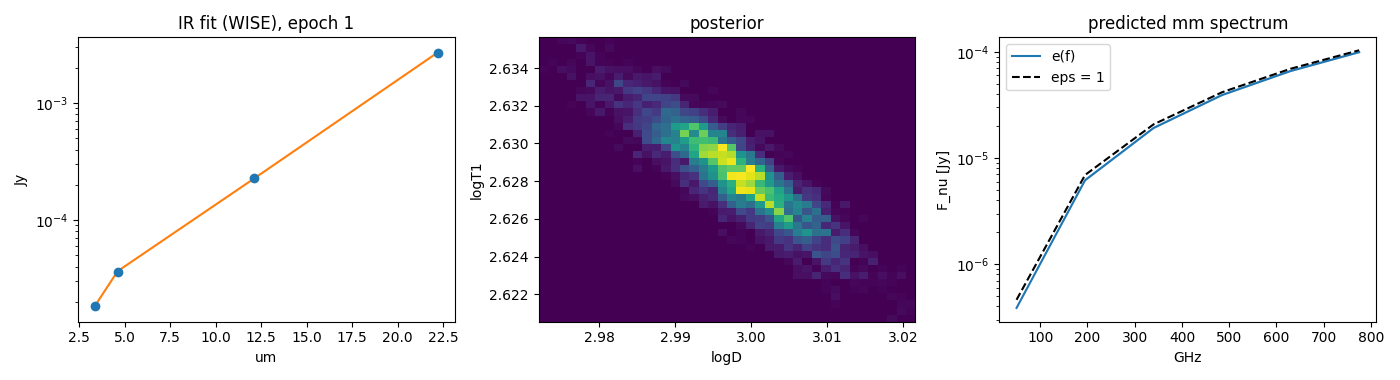
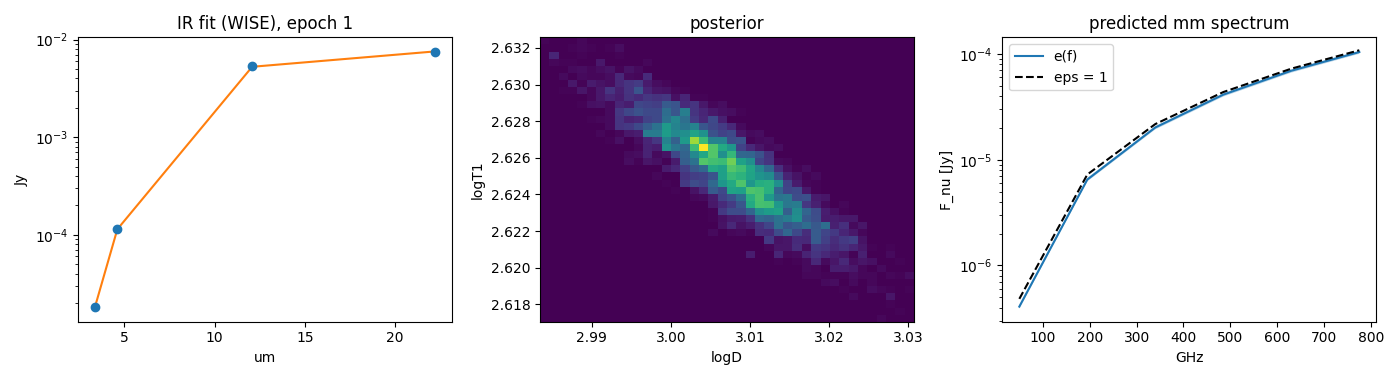
Fix WISE epoch/band transpose in mmfit; add fixed per-band eps and db loader; real Vesta example

diff --git a/reports/vesta/ir_to_mm_WISE.html b/reports/vesta/ir_to_mm_WISE.html
@@ -1,3 +1,3 @@
-<h2>IR to mm: WISE</h2><p>emissivity: L5_l5c.npz; acceptance 0.65; best chi2 = 5.7 for 12 points.</p><img src="ir_to_mm_WISE.png"><img src="ir_to_mm_WISE_sed.png"><pre>        logD   logT1     eps  logprob
-mean  5.7176  2.5936  0.8981  -4.3571
-std   0.0070  0.0023  0.0039   1.2165</pre>
+<h2>IR to mm: WISE</h2><p>emissivity: L5_l5c.npz; acceptance 0.65; best chi2 = 4.3 for 12 points.</p><img src="ir_to_mm_WISE.png"><img src="ir_to_mm_WISE_sed.png"><pre>        logD   logT1     eps  logprob
+mean  5.7261  2.5913  0.9046  -3.6355
+std   0.0070  0.0023  0.0036   1.2189</pre>

diff --git a/reports/ir_to_mm_WISE.html b/reports/ir_to_mm_WISE.html
@@ -1,3 +1,3 @@
-<h2>IR to mm: WISE</h2><p>emissivity: L5_l5c.npz; acceptance 0.65; best chi2 = 5.7 for 12 points.</p><img src="ir_to_mm_WISE.png"><pre>        logD   logT1     eps  logprob
-mean  2.9978  2.6284  0.8980  -4.3464
-std   0.0071  0.0022  0.0044   1.1890</pre>
+<h2>IR to mm: WISE</h2><p>emissivity: L5_l5c.npz; acceptance 0.65; best chi2 = 4.3 for 12 points.</p><img src="ir_to_mm_WISE.png"><img src="ir_to_mm_WISE_sed.png"><pre>        logD   logT1     eps  logprob
+mean  3.0075  2.6253  0.9042  -3.6201
+std   0.0070  0.0023  0.0041   1.1557</pre>

diff --git a/reports/vesta_real/ir_to_mm_WISE.html b/reports/vesta_real/ir_to_mm_WISE.html
@@ -1,0 +1,3 @@
+<h2>IR to mm: WISE</h2><p>emissivity: L5_l5c.npz; acceptance 0.65; best chi2 = 16.0 for 20 points.</p><img src="ir_to_mm_WISE.png"><img src="ir_to_mm_WISE_sed.png"><pre>        logD   logT1     eps  logprob
+mean  5.6406  2.6244  0.6727  -9.5186
+std   0.0162  0.0064  0.0318   1.2107</pre>

diff --git a/scripts/ir_to_mm.py b/scripts/ir_to_mm.py
@@ -1,6 +1,7 @@
 """Fit IR photometry (WISE or SPHEREx) with NEATM and predict the mm spectrum with Meteorites-TeraFlash e(f)."""
 
 import argparse
+import sqlite3
 from pathlib import Path
 
 import matplotlib
@@ -10,6 +11,7 @@ import matplotlib.pyplot as plt
 import numpy as np
 import pandas as pd
 
+from atm import modifyErrors
 from atm.config import Config
 from atm.constants import Constants
 from atm.functions.emissivity import EmissivityTable, ghzToLambda
@@ -71,12 +73,70 @@ def syntheticData(
     return df
 
 
+def loadWiseFromDb(db: Path, designation: str, sigma: float, obs: WISE) -> pd.DataFrame:
+    """
+    Load clipped WISE observations of one object from an atm_data sample database, following
+    the paper1 procedure (keep == 1, then `~atm.modifyErrors` adds sigma magnitudes of error).
+
+    Parameters
+    ----------
+    db : `~pathlib.Path`
+        sqlite database with an `observations` table (e.g. atm_data/paper1/sample.db).
+    designation : str
+        Object designation as stored in the database (e.g. "4" for Vesta).
+    sigma : float
+        Magnitude error added in quadrature-free offset form by `~atm.modifyErrors`.
+    obs : `~atm.obs.WISE`
+        Observatory used to convert the magnitude errors to flux errors.
+
+    Returns
+    -------
+    `~pandas.DataFrame`
+        Observations with an `alpha_rad` column.
+    """
+    with sqlite3.connect(f"file:{db}?mode=ro", uri=True) as con:
+        df = pd.read_sql(
+            "SELECT * FROM observations WHERE designation = ? AND keep = 1",
+            con,
+            params=(designation,),
+        )
+    if df.empty:
+        raise ValueError(f"No kept observations of {designation} in {db}")
+    df = modifyErrors(df, obs, sigma=sigma)
+    df["alpha_rad"] = np.radians(df["alpha_deg"])
+    return df
+
+
 def main() -> None:
     """Parse the CLI, run the fit, predict the mm spectrum and write figures plus an HTML report."""
     ap = argparse.ArgumentParser(description=__doc__)
     ap.add_argument("--obs", choices=list(OBS), default="WISE")
     ap.add_argument(
         "--data", type=Path, default=None, help="CSV of real data; default: synthetic"
+    )
+    ap.add_argument(
+        "--db",
+        type=Path,
+        default=None,
+        help="atm_data sample.db (WISE only); needs --designation",
+    )
+    ap.add_argument(
+        "--designation",
+        default=None,
+        help='object designation in the db, e.g. "4" for Vesta',
+    )
+    ap.add_argument(
+        "--sigma",
+        type=float,
+        default=0.10,
+        help="magnitude error added to db photometry",
+    )
+    ap.add_argument(
+        "--eps-fixed",
+        nargs="+",
+        default=[],
+        metavar="BAND=EPS",
+        help="fixed IR emissivity per band, e.g. W3=0.8 W4=0.98 (paper1 run4a); other bands share the fitted eps",
     )
     ap.add_argument(
         "--emissivity",
@@ -128,17 +188,21 @@ def main() -> None:
         [f"fluxErr_{n}_si" for n in names],
     )
     data = (
-        pd.read_csv(a.data)
+        loadWiseFromDb(a.db, a.designation, a.sigma, obs)
+        if a.db
+        else pd.read_csv(a.data)
         if a.data
         else syntheticData(
             model, obs, np.array(a.truth), a.rel_err, 0, tuple(a.geometry)
         )
     )
+    epsFixed = {k: float(v) for k, v in (x.split("=") for x in a.eps_fixed)}
     samples = fitEmcee(
         model,
         obs,
         data,
         columnMapping=cm,
+        epsFixed=epsFixed,
         nsteps=a.nsteps,
         burnIn=a.nsteps // 3,
         verbose=False,
@@ -181,7 +245,8 @@ def main() -> None:
         obs,
         np.array([logD, logT1, eps]),
         *(data[cm[k]].values.astype(float) for k in ["r_au", "delta_au", "alpha_rad"]),
-        0.15,
+        float(data[cm["G"]].iloc[0]),
+        epsFixed,
     )
     ax[0].plot(lam * 1e6, fluxLambdaToJy(best[0], lam), "-")
     ax[0].set(

diff --git a/atm/mmfit.py b/atm/mmfit.py
@@ -43,9 +43,27 @@ def fluxLambdaToJy(flux: np.ndarray, lambd: np.ndarray) -> np.ndarray:
     return flux * np.asarray(lambd) ** 2 / c * 1e26
 
 
-def _modelFlux(model, obs, theta: np.ndarray, r, delta, alpha, G) -> np.ndarray:
+def _epsPerFilter(obs, eps: float, epsFixed: dict | None) -> np.ndarray:
     """
-    IR model flux (thermal plus reflected) for parameters theta = (logD, logT1, eps).
+    Emissivity for each filter: `eps` for every filter not listed in `epsFixed`.
+
+    Returns
+    -------
+    `~numpy.ndarray` (M)
+    """
+    values = np.full(len(obs.filterNames), float(eps))
+    for name, value in (epsFixed or {}).items():
+        values[obs.filterNames.index(name)] = value
+    return values
+
+
+def _modelFlux(
+    model, obs, theta: np.ndarray, r, delta, alpha, G, epsFixed: dict | None = None
+) -> np.ndarray:
+    """
+    IR model flux (thermal plus reflected) for parameters theta = (logD, logT1, eps). Filters in
+    `epsFixed` use their fixed emissivity instead of eps; each filter's albedo follows Kirchhoff,
+    p = (1 - eps) / Q.
 
     Returns
     -------
@@ -53,6 +71,11 @@ def _modelFlux(model, obs, theta: np.ndarray, r, delta, alpha, G) -> np.ndarray:
         Flux in W m^-3 for N observations by M filters.
     """
     logD, logT1, eps = theta
+    r, delta, alpha = (np.atleast_1d(x) for x in (r, delta, alpha))
+    epsF = _epsPerFilter(obs, eps, epsFixed)
+    # WISE-style bandpassLambda returns (M, N), SPHEREx-style (N, M); eps broadcasts along filters
+    wiseLike = obs.acronym != "SPHEREx"
+    e = epsF[:, None] if wiseLike else epsF
     flux = interpFluxLambdaObsWithSunlight(
         model,
         obs,
@@ -61,15 +84,11 @@ def _modelFlux(model, obs, theta: np.ndarray, r, delta, alpha, G) -> np.ndarray:
         10**logT1 / np.sqrt(r),
         10**logD,
         alpha,
-        eps,
-        (1 - eps) / calcQ(G),
+        e,
+        (1 - e) / calcQ(G),
         G,
     )
-    return (
-        flux.reshape(len(np.atleast_1d(r)), -1)
-        if flux.shape[0] != len(np.atleast_1d(r))
-        else flux
-    )
+    return flux.T if wiseLike else flux
 
 
 def fitEmcee(
@@ -78,6 +97,7 @@ def fitEmcee(
     data: pd.DataFrame,
     columnMapping: dict = Config.columnMapping,
     parameterPriors: dict = Config.parameterPriors,
+    epsFixed: dict | None = None,
     nwalkers: int = 32,
     nsteps: int = 3000,
     burnIn: int = 1000,
@@ -104,6 +124,9 @@ def fitEmcee(
     parameterPriors : dict, optional
         Uniform bounds ("lower", "upper") for logD, logT1 and eps.
         [Default = `~atm.Config.parameterPriors`]
+    epsFixed : dict, optional
+        Filter name -> fixed emissivity (e.g. {"W3": 0.8, "W4": 0.98}, as in the paper1 runs). All other
+        filters share the fitted eps, and every filter's albedo follows Kirchhoff.
     nwalkers : int, optional
         Number of emcee walkers.
     nsteps : int, optional
@@ -144,7 +167,10 @@ def fitEmcee(
             return np.inf
         return float(
             (
-                ((Y - _modelFlux(model, obs, theta, r, delta, alpha, G)) / Y_err)[good]
+                (
+                    (Y - _modelFlux(model, obs, theta, r, delta, alpha, G, epsFixed))
+                    / Y_err
+                )[good]
                 ** 2
             ).sum()
         )

diff --git a/atm/tests/test_mmfit.py b/atm/tests/test_mmfit.py
@@ -61,3 +61,29 @@ def test_nanFluxIgnored(synthetic):
         verbose=False,
     )
     assert s.attrs["ndata"] == 11
+
+
+def test_modelFluxMatchesSingleEpoch(synthetic):
+    """Each epoch/band of _modelFlux must equal the model evaluated for that epoch alone."""
+    model, obs, _, _ = synthetic
+    r, delta, alpha = (
+        np.array([2.0, 2.2, 2.4]),
+        np.array([1.2, 1.4, 1.6]),
+        np.array([0.1, 0.3, 0.5]),
+    )
+    all_ = _modelFlux(model, obs, TRUTH, r, delta, alpha, 0.15)
+    assert all_.shape == (3, 4)
+    for i in range(3):
+        one = _modelFlux(
+            model, obs, TRUTH, r[i : i + 1], delta[i : i + 1], alpha[i : i + 1], 0.15
+        )
+        np.testing.assert_allclose(all_[i], one[0])
+
+
+def test_epsFixedChangesOnlyThoseBands(synthetic):
+    model, obs, _, _ = synthetic
+    r, delta, alpha = np.array([2.0]), np.array([1.2]), np.array([0.3])
+    base = _modelFlux(model, obs, TRUTH, r, delta, alpha, 0.15)
+    fixed = _modelFlux(model, obs, TRUTH, r, delta, alpha, 0.15, {"W4": 0.5})
+    np.testing.assert_allclose(base[0, :3], fixed[0, :3])
+    assert not np.isclose(base[0, 3], fixed[0, 3], rtol=1e-3, atol=0)
